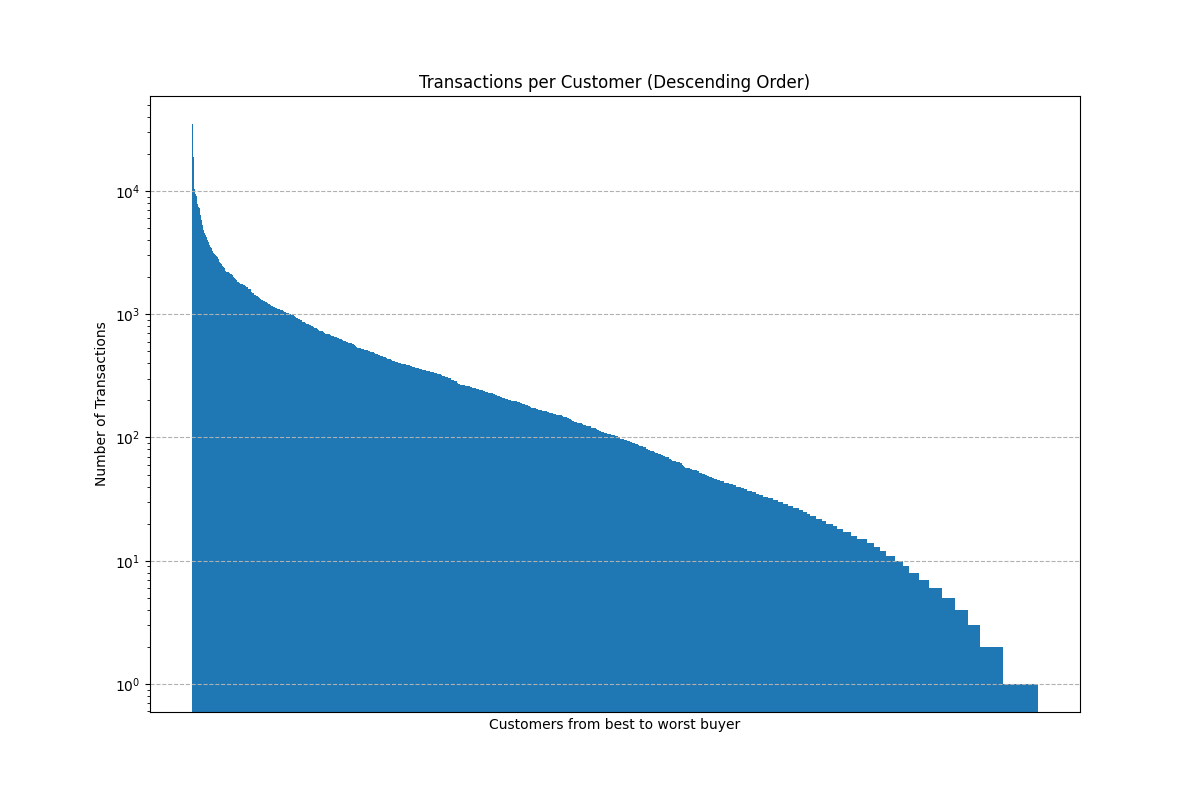
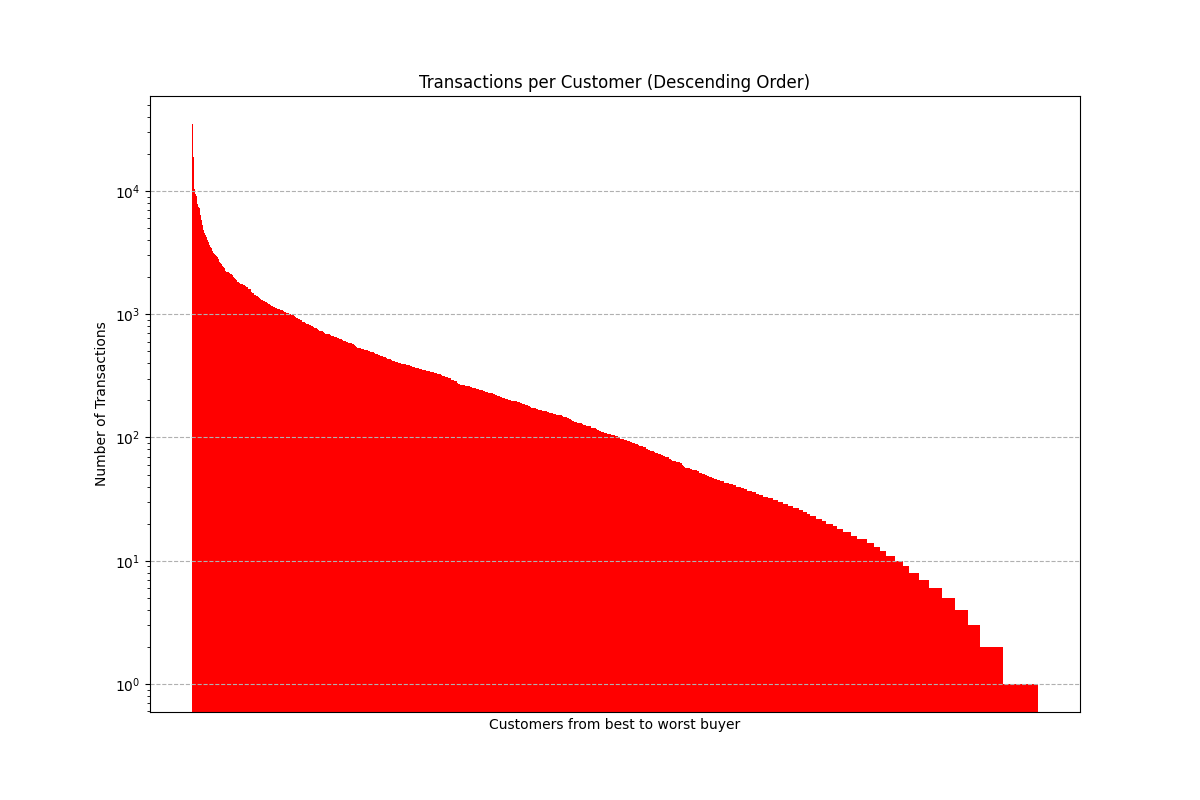
changed histogram color

Changed region(s): [[0.1542, 0.25, 0.8633, 0.9062]]

diff --git a/transactions_customer_hist.py b/transactions_customer_hist.py
@@ -5,9 +5,9 @@ df = pd.read_csv("data/all_transactions.csv", index_col=0)
 
 customer_monthly = df.groupby(['customer_id', 'year_month']).size().reset_index(name='transactions')
 customer_counts = customer_monthly.groupby('customer_id')['transactions'].sum().sort_values(ascending=False)
-plt.figure(figsize=(12, 8))
-plt.bar(customer_counts.index.astype(str), customer_counts.values, width=1)
 
+plt.figure(figsize=(12, 8))
+plt.bar(customer_counts.index.astype(str), customer_counts.values, width=1, color='red')
 plt.xlabel("Customers from best to worst buyer")
 plt.ylabel("Number of Transactions")
 plt.title("Transactions per Customer (Descending Order)")
